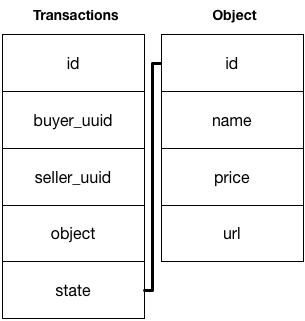
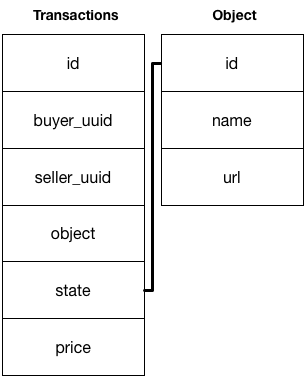
done transactions, objects and docs, by until next week

diff --git a/src/data/views.py b/src/data/views.py
@@ -1,11 +1,69 @@
 # coding=utf-8
-from rest_framework import views
-from django.http import JsonResponse
+from rest_framework import views, status
+from .models import Transactions, Object
+from .serializers import TransactionsSerializer, TransactionsSerializerCreate, TransactionsSerializerState
+from django.shortcuts import get_object_or_404
+from rest_framework.response import Response
 
 
-class ShowProducts(views.APIView):
+class TransactionDetails(views.APIView):
 
     @staticmethod
-    def get(request, id_app, id_luz):
-        pass
+    def get(request, transaction_id):
+        serializer_response = TransactionsSerializer(get_object_or_404(Transactions.objects.all(), id=transaction_id))
+        return Response(serializer_response.data, status=status.HTTP_200_OK)
 
+
+class TransactionHistory(views.APIView):
+
+    @staticmethod
+    def get(request, user_uuid):
+        as_buyer = Transactions.objects.filter(buyer_uuid=user_uuid)
+        as_seller = Transactions.objects.filter(seller_uuid=user_uuid)
+
+        serializer_response_as_buyer = TransactionsSerializer(as_buyer, many=True)
+        serializer_response_as_seller = TransactionsSerializer(as_seller, many=True)
+
+        return Response({"as_buyer": serializer_response_as_buyer.data,
+                         "as_seller": serializer_response_as_seller.data},
+                        status=status.HTTP_200_OK)
+
+
+class CreateTransaction(views.APIView):
+
+    @staticmethod
+    def post(request):
+        serializer = TransactionsSerializerCreate(data=request.data)
+
+        if serializer.is_valid():
+            obj = get_object_or_404(Object.objects.all(), id=serializer.validated_data['object_uuid'])
+
+            trans = Transactions.objects.create(buyer_uuid=serializer.validated_data['buyer_uuid'],
+                                                seller_uuid=serializer.validated_data['seller_uuid'],
+                                                object=obj,
+                                                price=serializer.validated_data['price'],
+                                                state=serializer.validated_data['state'])
+
+            serializer_response = TransactionsSerializer(trans)
+            return Response(serializer_response.data, status=status.HTTP_201_CREATED)
+
+        return Response({'status': 'Bad request',
+                         'message': 'The data that you send is invalid!'},
+                        status=status.HTTP_400_BAD_REQUEST)
+
+
+class UpdateTransactionState(views.APIView):
+
+    @staticmethod
+    def post(request):
+        serializer = TransactionsSerializerState(data=request.data)
+
+        if serializer.is_valid():
+            trans = get_object_or_404(Transactions.objects.all(), id=serializer.validated_data['transaction_id'])
+            trans.state = serializer.validated_data['state']
+            serializer_response = TransactionsSerializer(trans)
+            return Response(serializer_response.data, status=status.HTTP_200_OK)
+
+        return Response({'status': 'Bad request',
+                         'message': 'The data that you send is invalid!'},
+                        status=status.HTTP_400_BAD_REQUEST)

diff --git a/src/data/tests.py b/src/data/tests.py
@@ -1,0 +1,66 @@
+from django.test import TestCase
+from rest_framework.test import APIClient
+import uuid
+
+
+class ObjectsTestCase(TestCase):
+    def setUp(self):
+        pass
+
+    def test_objects(self):
+        client = APIClient()
+
+        # create object
+
+        buyer_uuid = str(uuid.uuid4())
+
+        url = "/api/v1/object/new/"
+        data = {'name': 'Lote Terreno Hotel ou similar Alto Alentejo Marvao - Proje. Aprovado',
+                'url': 'https://www.olx.pt/anuncio/lote-terreno-hotel-ou-similar-alto-alentejo-marvo-proje-aprovado-IDzGYf3.html#d62794f553;promoted',
+                'user_uuid': buyer_uuid}
+        response = client.post(path=url, data=data)
+        self.assertEqual(response.status_code, 201)
+
+        seller_uuid = str(uuid.uuid4())
+        object_uuid = response.data["id"]
+
+        # create transaction
+
+        url = "/api/v1/transaction/new/"
+        data = {'buyer_uuid': buyer_uuid,
+                'seller_uuid': seller_uuid,
+                'object_uuid': object_uuid,
+                'price': 21.2,
+                'state': "AWAITING_SELLER_CONFIRMATION"}
+        response = client.post(path=url, data=data)
+        self.assertEqual(response.status_code, 201)
+
+        transaction_uuid = response.data["id"]
+
+        # transaction details
+
+        url = "/api/v1/transaction/details/" + transaction_uuid + "/"
+        response = client.get(path=url)
+        self.assertEqual(response.status_code, 200)
+
+        # transaction history as seller
+
+        url = "/api/v1/transaction/history/"+seller_uuid+"/"
+        response = client.get(path=url)
+        self.assertEqual(response.status_code, 200)
+        self.assertEqual(len(response.data["as_seller"]), 1)
+
+        # transaction history as buyer
+
+        url = "/api/v1/transaction/history/"+buyer_uuid+"/"
+        response = client.get(path=url)
+        self.assertEqual(response.status_code, 200)
+        self.assertEqual(len(response.data["as_buyer"]), 1)
+
+        # update transaction state
+
+        url = "/api/v1/transaction/state/"
+        data = {'transaction_id': transaction_uuid,
+                'state': "REFUND"}
+        response = client.post(path=url, data=data)
+        self.assertEqual(response.status_code, 200)

diff --git a/src/data/serializers.py b/src/data/serializers.py
@@ -8,5 +8,23 @@ class TransactionsSerializer(serializers.ModelSerializer):
 
     class Meta:
         model = Transactions
-        fields = ('id', 'buyer_uuid', 'seller_uuid', 'object', 'state', 'created_at', 'updated_at',)
+        fields = ('id', 'buyer_uuid', 'seller_uuid', 'object', 'price', 'state', 'created_at', 'updated_at',)
         read_only_fields = ('id', 'created_at', 'updated_at',)
+
+
+class TransactionsSerializerCreate(serializers.ModelSerializer):
+    object_uuid = serializers.CharField(max_length=128)
+
+    class Meta:
+        model = Transactions
+        fields = ('buyer_uuid', 'seller_uuid', 'object_uuid', 'price', 'state',)
+        read_only_fields = ()
+
+
+class TransactionsSerializerState(serializers.ModelSerializer):
+    transaction_id = serializers.CharField(max_length=128)
+
+    class Meta:
+        model = Transactions
+        fields = ('state', 'transaction_id')
+        read_only_fields = ()

diff --git a/src/data/models.py b/src/data/models.py
@@ -18,12 +18,12 @@ class Transactions(models.Model):
     COMPLETED = "Completed"
 
     STATE = (
-        (AWAITING_SELLER_CONFIRMATION, "Awating seller confirmation"),
-        (AWAITING_PAYMENT, "Awaiting payment"),
-        (AWAITING_SHIPPING, "Awaiting shipping"),
-        (SHIPPED, "Shipped"),
-        (REFUND, "Refund"),
-        (COMPLETED, "Completed"),
+        ("AWAITING_SELLER_CONFIRMATION", AWAITING_SELLER_CONFIRMATION),
+        ("AWAITING_PAYMENT", AWAITING_PAYMENT),
+        ("AWAITING_SHIPPING", AWAITING_SHIPPING),
+        ("SHIPPED", SHIPPED),
+        ("REFUND", REFUND),
+        ("COMPLETED", COMPLETED),
     )
 
     state = models.CharField(choices=STATE, db_index=True, default=AWAITING_SELLER_CONFIRMATION, max_length=100)

diff --git a/src/data/urls.py b/src/data/urls.py
@@ -1,6 +1,9 @@
 from django.conf.urls import url
-from data.views import ShowProducts
+from .views import TransactionDetails, TransactionHistory, CreateTransaction, UpdateTransactionState
 
 urlpatterns = [
-               url(r'^show/models/(?P<id_app>.+)/(?P<id_luz>.+)/$', ShowProducts.as_view(), name="Download certificate"),
+               url(r'^details/(?P<transaction_id>.+)/$', TransactionDetails.as_view(), name="Show details"),
+               url(r'^history/(?P<user_uuid>.+)/$', TransactionHistory.as_view(), name="Transactions history"),
+               url(r'^new/$', CreateTransaction.as_view(), name="Create transaction"),
+               url(r'^state/$', UpdateTransactionState.as_view(), name="Update transaction state"),
 ]
